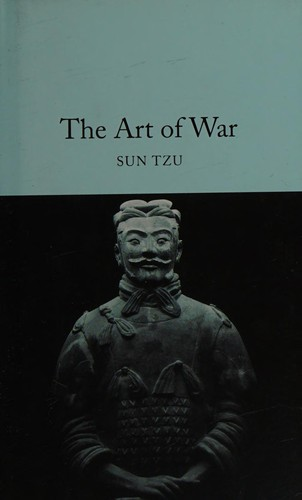
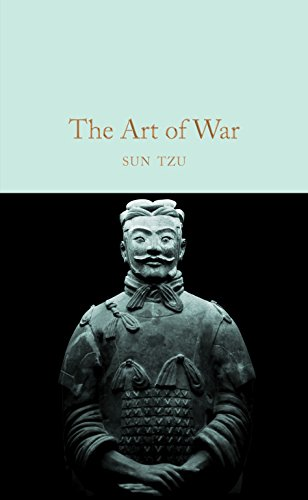
Improve the books page: descriptions, covers and layout
- Add descriptions for 15 more books and refresh ten-plus covers
  (Amazon/Google editions), including the correct Creativity cover
- Serve covers through next/image at their display size, with a hairline
  edge and neutral shadow so pale covers stand out
- Add a favourite flag so some noted books sit in More books as full-width rows
- Sort More books alphabetically, ignoring a leading The/A/An
- Add a floating back-to-top arrow
- Put the Buy button under the cover on full-width rows from 640px

diff --git a/pages/books.js b/pages/books.js
@@ -2,10 +2,12 @@ import { track } from "@vercel/analytics";
 import classNames from "classnames";
 import booksIndex from "data/books-index.json";
 import Head from "next/head";
+import Image from "next/image";
 import Link from "next/link";
 
 import styles from "./books.module.css";
 
+import BackToTopButton from "components/BackToTopButton";
 import FancyLink from "components/FancyLink";
 import TextHeader from "components/TextHeader";
 import { fastScrollToTop, pageTitle } from "helpers";
@@ -30,7 +32,10 @@ const BookBuyLink = ({ book, className, children, location, ...props }) => (
 	</a>
 );
 
-const BookCover = ({ book }) => {
+// Covers display at 80x120 (128x192 for noted rows from 640px up). Next's
+// optimiser resizes them to the 2x size and serves WebP/AVIF, which is crisper
+// and lighter than letting the browser downscale the ~300px source.
+const BookCover = ({ book, noted, priority }) => {
 	const coverClassName = classNames(styles.coverImage, "rounded");
 
 	return (
@@ -41,13 +46,15 @@ const BookCover = ({ book }) => {
 			aria-label={`Buy ${book.title}`}
 		>
 			{book.thumbnail ? (
-				<img
+				<Image
 					src={book.thumbnail}
 					alt=""
-					width={112}
-					height={168}
-					loading="lazy"
-					decoding="async"
+					width={128}
+					height={192}
+					sizes={noted ? "(min-width: 640px) 128px, 80px" : "80px"}
+					quality={90}
+					loading={priority ? "eager" : "lazy"}
+					fetchPriority={priority ? "high" : "auto"}
 					className={coverClassName}
 				/>
 			) : (
@@ -114,14 +121,34 @@ const NoteText = ({ text }) => {
 	});
 };
 
-const BookRow = ({ book }) => {
+const BuyButton = ({ book }) => (
+	<BookBuyLink
+		book={book}
+		className="btn-outline inline-block no-underline"
+		location="button"
+	>
+		Buy
+	</BookBuyLink>
+);
+
+const BookRow = ({ book, priority = false }) => {
 	const hasNote = Boolean(book.note);
+	const cover = <BookCover book={book} noted={hasNote} priority={priority} />;
 
 	return (
 		<article
 			className={classNames(styles.bookRow, hasNote && styles.bookRowNoted)}
 		>
-			<BookCover book={book} />
+			{hasNote ? (
+				<div className={styles.coverColumn}>
+					{cover}
+					<div className={`not-prose ${styles.buyAction} ${styles.coverBuy}`}>
+						<BuyButton book={book} />
+					</div>
+				</div>
+			) : (
+				cover
+			)}
 
 			<div className={styles.bookContent}>
 				<BookTitle book={book} />
@@ -143,13 +170,7 @@ const BookRow = ({ book }) => {
 					</div>
 
 					<div className={`not-prose ${styles.buyAction}`}>
-						<BookBuyLink
-							book={book}
-							className="btn-outline inline-block no-underline"
-							location="button"
-						>
-							Buy
-						</BookBuyLink>
+						<BuyButton book={book} />
 					</div>
 				</div>
 			</div>
@@ -157,9 +178,32 @@ const BookRow = ({ book }) => {
 	);
 };
 
+// Alphabetical order ignores a leading "The", "A" or "An".
+const sortKey = (title) => title.replace(/^(the|an|a)\s+/i, "");
+
 const Books = ({ books }) => {
-	const withNotes = books.filter((book) => book.note);
-	const rest = books.filter((book) => !book.note);
+	// Favourites get the "Start here" section; noted books marked
+	// `favourite: false` sit in "More books" as full-width rows.
+	const withNotes = books.filter(
+		(book) => book.note && book.favourite !== false,
+	);
+	const rest = books
+		.filter((book) => !(book.note && book.favourite !== false))
+		.sort((a, b) => sortKey(a.title).localeCompare(sortKey(b.title)));
+
+	// Alphabetical runs of compact books share the two-column grid; a book with
+	// a note breaks it into a full-width row, so the order reads straight through.
+	const moreBooks = [];
+	for (const book of rest) {
+		const last = moreBooks[moreBooks.length - 1];
+		if (book.note) {
+			moreBooks.push({ noted: true, books: [book] });
+		} else if (last && !last.noted) {
+			last.books.push(book);
+		} else {
+			moreBooks.push({ noted: false, books: [book] });
+		}
+	}
 
 	return (
 		<>
@@ -178,6 +222,7 @@ const Books = ({ books }) => {
 				<meta property="og:url" content="https://sketchplanations.com/books" />
 				<meta name="twitter:card" content="summary" />
 			</Head>
+			<BackToTopButton />
 			<div id="top" className="max-w-5xl mx-auto px-5 pb-16 scroll-mt-24">
 				<div className="prose max-w-none text-center pt-12 pb-6">
 					<div className="not-prose">
@@ -212,9 +257,10 @@ const Books = ({ books }) => {
 									Favourites from the sketches, and why I love them.
 								</p>
 								<ul className={styles.noteList}>
-									{withNotes.map((book) => (
+									{withNotes.map((book, index) => (
 										<li key={book.title}>
-											<BookRow book={book} />
+											{/* The first covers are above the fold: load them eagerly */}
+											<BookRow book={book} priority={index < 2} />
 										</li>
 									))}
 								</ul>
@@ -226,13 +272,18 @@ const Books = ({ books }) => {
 								<h2 id="more-books" className={styles.sectionHeading}>
 									More books
 								</h2>
-								<ul className={styles.bookList}>
-									{rest.map((book) => (
-										<li key={book.title}>
-											<BookRow book={book} />
-										</li>
-									))}
-								</ul>
+								{moreBooks.map((group) => (
+									<ul
+										key={group.books[0].title}
+										className={group.noted ? styles.noteList : styles.bookList}
+									>
+										{group.books.map((book) => (
+											<li key={book.title}>
+												<BookRow book={book} />
+											</li>
+										))}
+									</ul>
+								))}
 							</section>
 						) : null}
 

diff --git a/pages/books.module.css b/pages/books.module.css
@@ -7,15 +7,22 @@
 }
 
 .coverLink {
-	@apply flex-shrink-0 self-start;
+	@apply relative flex-shrink-0 self-start justify-self-start;
+}
+
+/* Hairline edge drawn over the image, so pale covers don't dissolve into the page */
+.coverLink::after {
+	content: "";
+	@apply absolute inset-0 rounded pointer-events-none;
+	box-shadow: inset 0 0 0 1px rgba(0, 0, 0, 0.14);
 }
 
 .coverImage {
 	@apply w-20 h-[7.5rem] object-cover block;
-	/* Soft lift, related to sketch card shadows but a touch lighter for small covers */
+	/* Neutral contact shadow plus a short soft drop, so the cover sits on the page */
 	box-shadow:
-		0 1px 2px rgba(0, 0, 0, 0.06),
-		0 0.65rem 1.1rem -0.55rem var(--color-sketchShadow);
+		0 1px 2px rgba(0, 0, 0, 0.16),
+		0 0.5rem 0.9rem -0.4rem rgba(0, 0, 0, 0.28);
 }
 
 .coverPlaceholder {
@@ -23,10 +30,14 @@
 }
 
 @media (prefers-color-scheme: dark) {
+	.coverLink::after {
+		box-shadow: inset 0 0 0 1px rgba(255, 255, 255, 0.18);
+	}
+
 	.coverImage {
 		box-shadow:
-			0 1px 2px rgba(0, 0, 0, 0.35),
-			0 0.65rem 1.1rem -0.55rem var(--color-sketchShadow);
+			0 1px 2px rgba(0, 0, 0, 0.5),
+			0 0.5rem 0.9rem -0.4rem rgba(0, 0, 0, 0.7);
 	}
 }
 
@@ -104,8 +115,14 @@
 	grid-template-columns: 5rem minmax(0, 1fr);
 }
 
-.bookRowNoted .coverLink {
-	@apply col-start-1 row-start-1;
+/* Cover plus, from 640px, its Buy button underneath */
+.bookRowNoted .coverColumn {
+	@apply col-start-1 row-start-1 flex flex-col items-start gap-3;
+}
+
+/* Below 640px the Buy button stays at the end of the row instead */
+.coverBuy {
+	@apply hidden;
 }
 
 .bookRowNoted .coverImage {
@@ -147,12 +164,24 @@
 		grid-template-columns: 8rem minmax(0, 1fr);
 	}
 
-	.bookRowNoted .coverLink {
+	.bookRowNoted .coverColumn {
 		@apply row-span-3;
 	}
 
 	.bookRowNoted .coverImage {
 		@apply w-32 h-48;
+	}
+
+	.coverBuy {
+		@apply block w-32;
+	}
+
+	.coverBuy a {
+		@apply block text-center;
+	}
+
+	.bookRowNoted .bookMeta .buyAction {
+		@apply hidden;
 	}
 
 	.bookRowNoted .bookHeading,

diff --git a/components/BackToTopButton.js b/components/BackToTopButton.js
@@ -1,0 +1,34 @@
+import classNames from "classnames";
+import { useEffect, useState } from "react";
+
+import styles from "./BackToTopButton.module.css";
+
+import { fastScrollToTop } from "helpers";
+
+// Small floating "back to top" arrow for long pages. It fades in once the
+// reader is a screen and a half down, so it stays out of the way near the top.
+const BackToTopButton = () => {
+	const [visible, setVisible] = useState(false);
+
+	useEffect(() => {
+		const update = () => setVisible(window.scrollY > window.innerHeight * 1.5);
+
+		update();
+		window.addEventListener("scroll", update, { passive: true });
+		return () => window.removeEventListener("scroll", update);
+	}, []);
+
+	return (
+		<button
+			type="button"
+			aria-label="Back to top"
+			tabIndex={visible ? 0 : -1}
+			onClick={() => fastScrollToTop()}
+			className={classNames(styles.button, visible && styles.visible)}
+		>
+			<span aria-hidden="true">↑</span>
+		</button>
+	);
+};
+
+export default BackToTopButton;

diff --git a/tests/utils/bookLinks.test.js b/tests/utils/bookLinks.test.js
@@ -332,6 +332,22 @@ describe("buildBooksIndex", () => {
 
 		expect(books[0].thumbnail).toBe("/books/the-art-cure.jpg");
 	});
+
+	it("treats books as favourites unless an override says otherwise", () => {
+		const books = buildBooksIndex(
+			[
+				{ url: "https://geni.us/a", text: "Alpha", uid: "a", sketchTitle: "A" },
+				{ url: "https://geni.us/b", text: "Beta", uid: "b", sketchTitle: "B" },
+			],
+			{
+				alpha: { note: "Loved it." },
+				beta: { note: "Worth a look.", favourite: false },
+			},
+		);
+
+		expect(books.find((book) => book.title === "Alpha").favourite).toBe(true);
+		expect(books.find((book) => book.title === "Beta").favourite).toBe(false);
+	});
 });
 
 describe("normalizeBookTitle", () => {

diff --git a/components/BackToTopButton.module.css b/components/BackToTopButton.module.css
@@ -1,0 +1,11 @@
+.button {
+	@apply fixed bottom-5 right-5 z-40 flex h-10 w-10 items-center justify-center rounded-full border border-border bg-bg text-lg leading-none text-blue shadow-md hover:bg-bgDarker dark:text-blueLight;
+	opacity: 0;
+	pointer-events: none;
+	transition: opacity 200ms;
+}
+
+.visible {
+	opacity: 1;
+	pointer-events: auto;
+}

diff --git a/tests/utils/booksPage.test.js b/tests/utils/booksPage.test.js
@@ -119,7 +119,6 @@ describe("books page index quality", () => {
 
 		for (const book of books) {
 			expect(badTitlePattern.test(book.title)).toBe(false);
-			expect(book.note).toBeNull();
 		}
 
 		expect(
